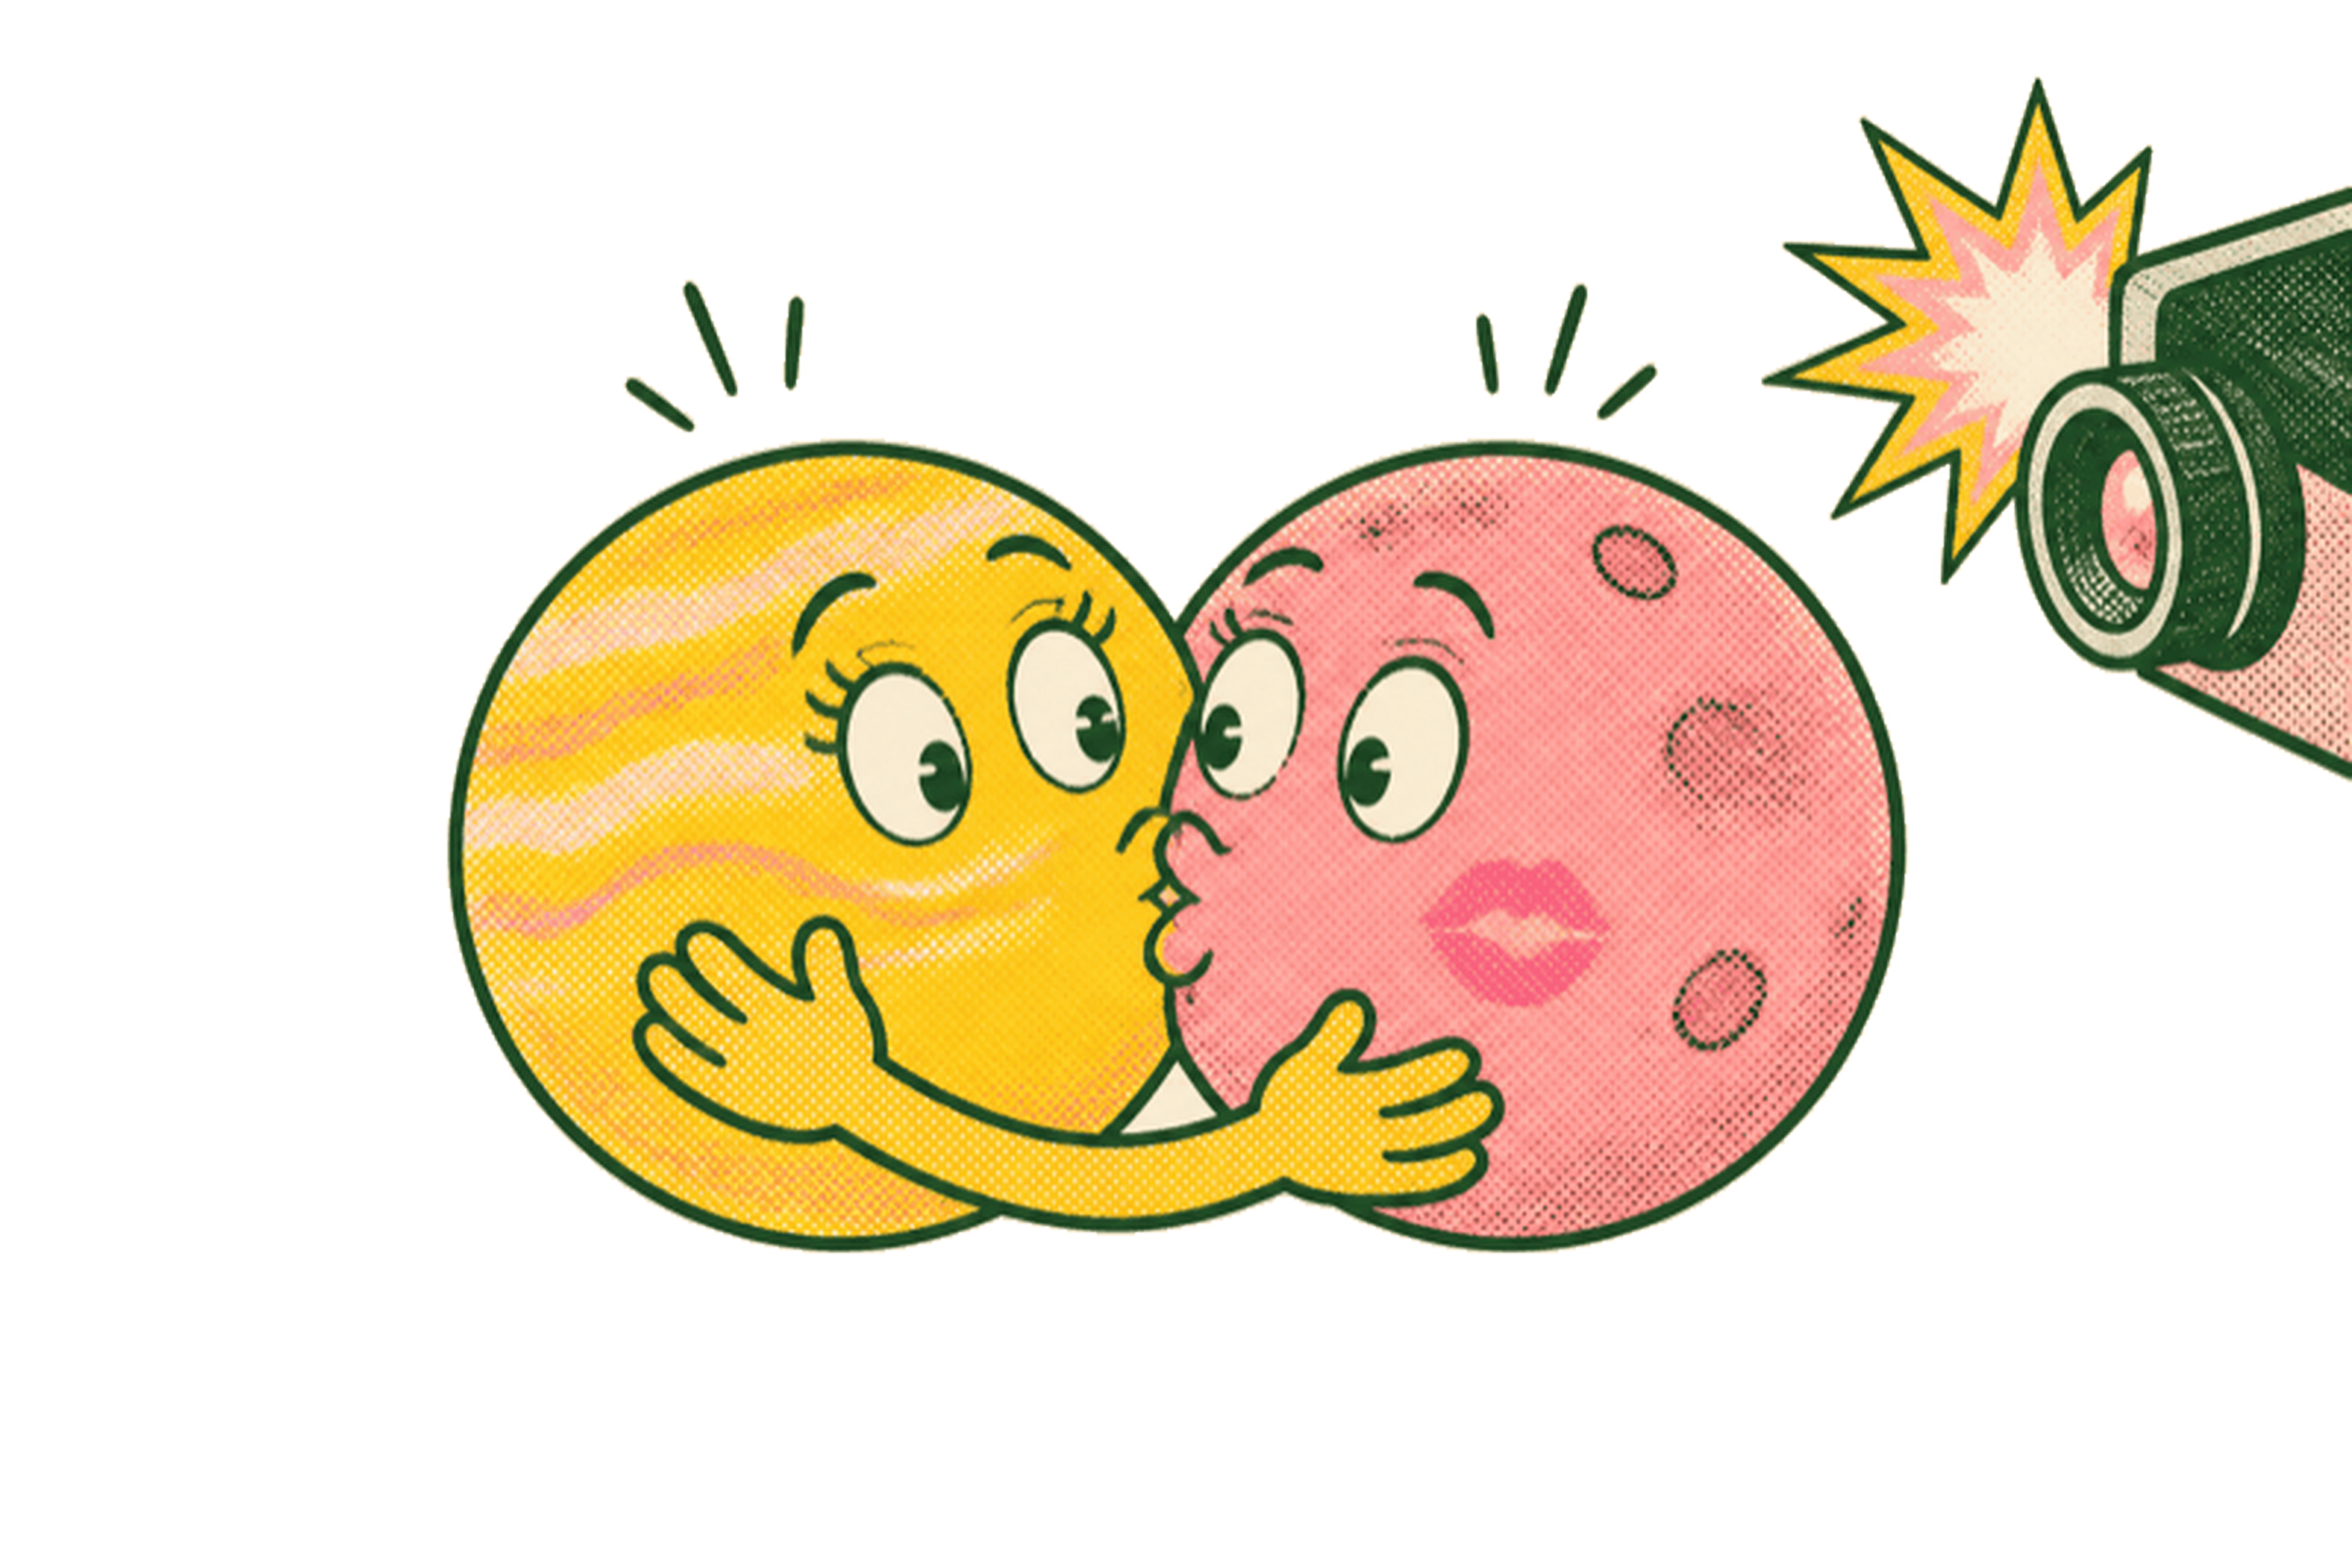
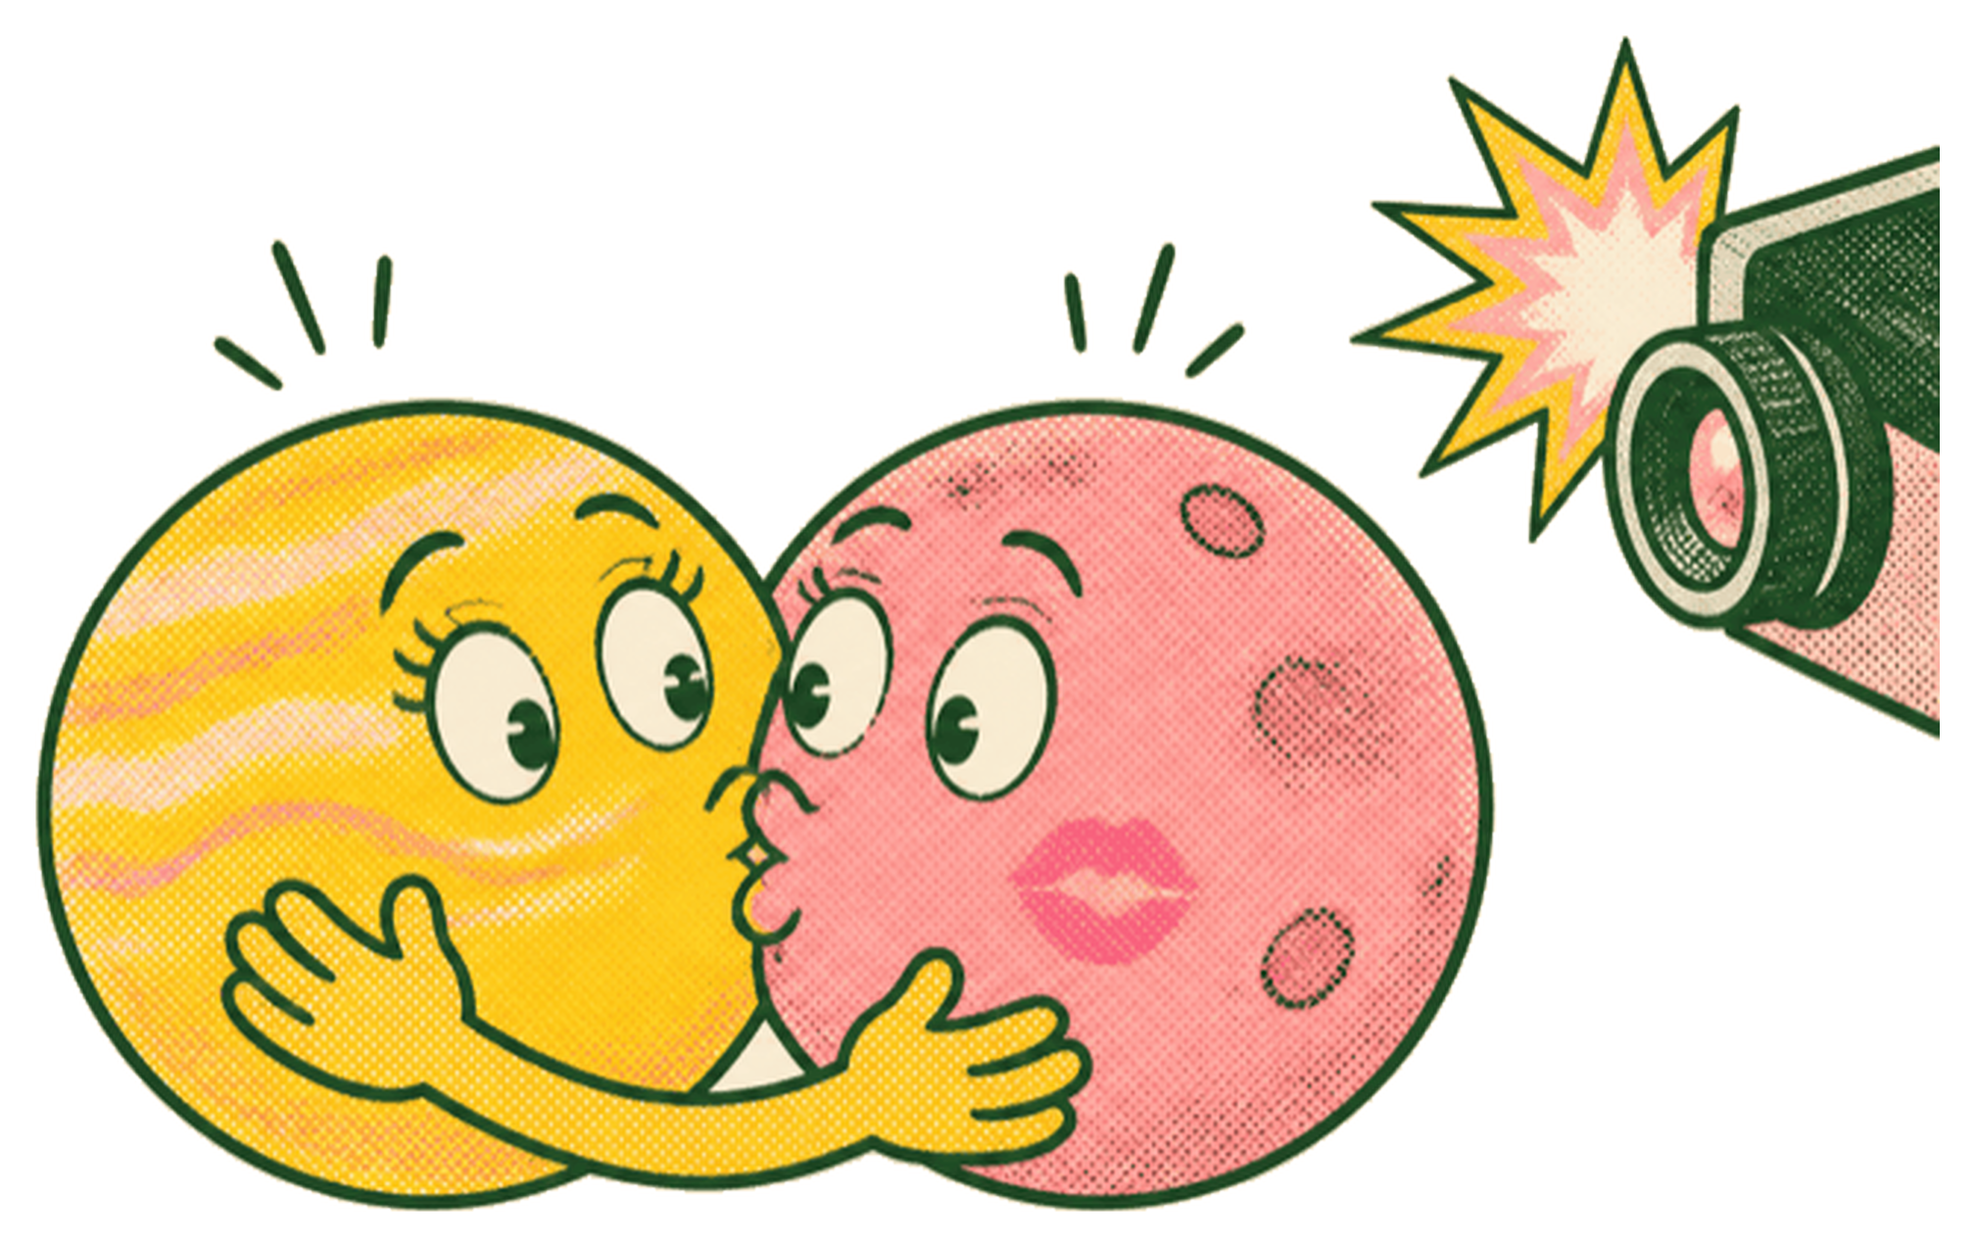
Center desk artwork horizontally on mobile
The desk illustrations carried uneven blank padding inside their PNG
canvases, and .desk-visual became a two-column grid below 800px, which
pinned every image to the left half. Trim each desk PNG to its artwork
bounding box with a uniform transparent margin, drop the compensating
translateX(20%) transform, and reset the visual to a single column in
both the story and demo mobile layouts.

diff --git a/life-edition-demo.css b/life-edition-demo.css
@@ -282,7 +282,7 @@ body { background-image: radial-gradient(ellipse at 90% 3%, #e7ded755, transpare
   .three-intro { gap: 14px; }.three-intro img { width: 100px; height: 125px; }.three-intro h2 { font-size: 38px; }.three-intro h2 br { display: block; }
   .three-list { grid-template-columns: 1fr; }.three-list li, .three-list li:first-child, .three-list li:last-child { padding: 25px 0; border-right: 0; border-bottom: 1px solid var(--line); }.three-list li:last-child { border-bottom: 0; }.three-list h3 { margin: 12px 0; }.life-three { margin-bottom: 55px; }
   .desk-index { display: block; padding: 12px 0; }.index-title { display: block; margin-bottom: 10px; }.desk-index-list { display: flex; flex-wrap: nowrap; overflow-x: auto; padding-bottom: 5px; }.desk-index-list button { flex-shrink: 0; padding: 9px 12px; min-height: 36px; }
-  .desk-file { grid-template-columns: 1fr; padding-top: 25px; margin-bottom: 65px; }.desk-visual { position: static; padding: 0; display: grid; grid-template-columns: 1fr 1fr; align-items: center; gap: 10px; }.desk-visual > img { max-height: 220px; min-height: 0; }.desk-visual-label { grid-row: 2; grid-column: 1 / -1; }.tota-margin { padding: 10px; }.tota-margin img { float: none; width: 60px; height: 60px; margin: 0; }.tota-margin blockquote { font-size: 26px; }.desk-copy { padding: 30px 10px 0; }.desk-copy h3 { font-size: 46px; }.desk-number { top: 30px; right: 15px; }.desk-file-ink { padding: 25px 18px; }.desk-file:nth-child(even) .desk-visual { border: 0; }
+  .desk-file { grid-template-columns: 1fr; padding-top: 25px; margin-bottom: 65px; }.desk-visual { position: static; padding: 0; display: grid; grid-template-columns: minmax(0, 1fr); justify-items: center; align-items: center; gap: 10px; }.desk-visual > img { max-height: 220px; min-height: 0; }.desk-visual-label { grid-row: 2; grid-column: 1 / -1; }.tota-margin { padding: 10px; }.tota-margin img { float: none; width: 60px; height: 60px; margin: 0; }.tota-margin blockquote { font-size: 26px; }.desk-copy { padding: 30px 10px 0; }.desk-copy h3 { font-size: 46px; }.desk-number { top: 30px; right: 15px; }.desk-file-ink { padding: 25px 18px; }.desk-file:nth-child(even) .desk-visual { border: 0; }
   .gift-chapter { grid-template-columns: 1fr; gap: 20px; padding: 35px 28px; margin-bottom: 55px; }.gift-chapter > img { max-height: 220px; }.gift-chapter h2 { font-size: 48px; }.gift-chapter .acid-button { text-align: left; }
   .rail-steps button { display: block; min-width: 30px; min-height: 36px; }.rail-fill { transition: width .4s ease; }
 }

diff --git a/life-edition-story.css b/life-edition-story.css
@@ -1541,6 +1541,9 @@
 
   .full-reading-stack .desk-visual {
     grid-column: 1;
+    /* life-edition-demo.css turns .desk-visual into a two-column grid on mobile;
+       reset to one column so the artwork centers instead of filling the left half. */
+    grid-template-columns: minmax(0, 1fr);
     width: 100%;
     margin-inline: auto;
     justify-items: center;
@@ -1552,8 +1555,6 @@
     max-height: none;
     margin-inline: auto;
     justify-self: center;
-    transform: translateX(20%) scale(1.12);
-    transform-origin: center;
   }
 
   .life-page.demo-body .full-reading-stack .desk-copy,
